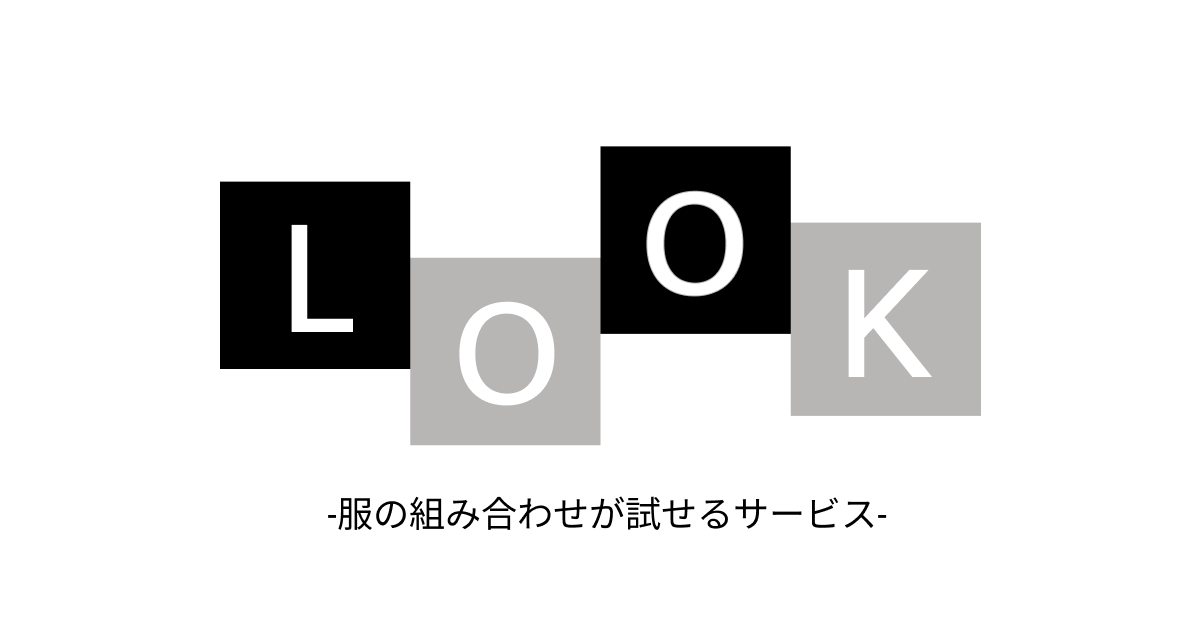
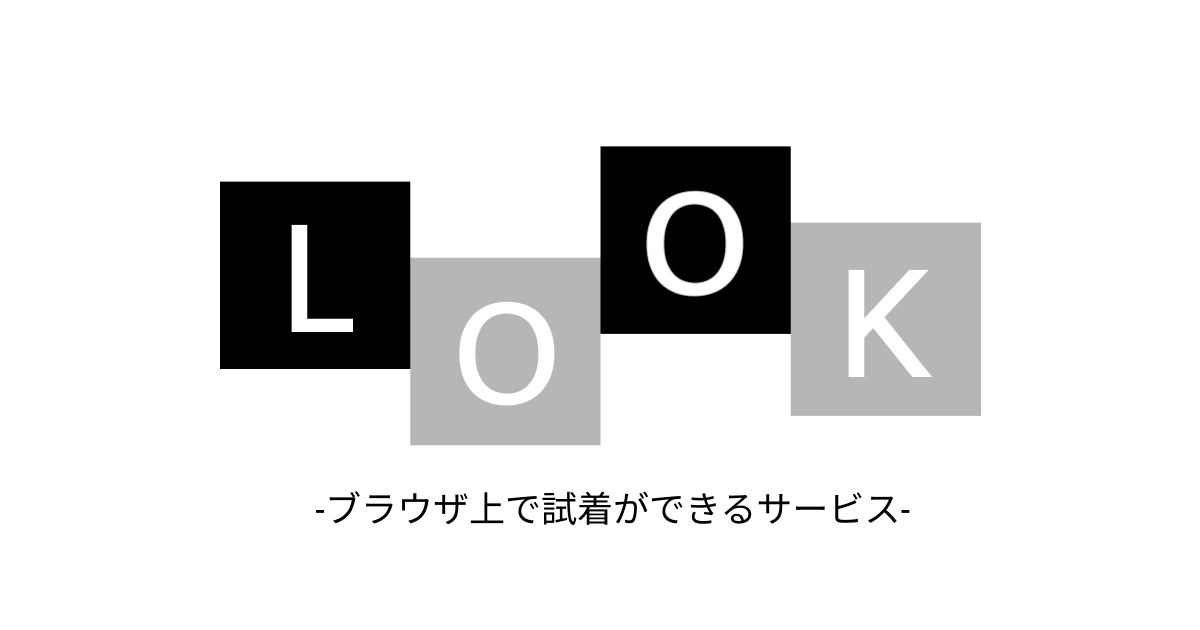
文言修正

Changed region(s): [[0.2775, 0.7841, 0.74, 0.8444]]

diff --git a/app/helpers/application_helper.rb b/app/helpers/application_helper.rb
@@ -4,7 +4,7 @@ module ApplicationHelper
       site: 'LOOK',
       reverse: true,
       separator: '|',
-      description: 'ブラウザ上で服の組み合わせが試せるサービス。',
+      description: 'ブラウザ上で試着ができるサービス。',
       keywords: '服,ファッション,コーディネート',
       canonical: request.original_url,
       noindex: ! Rails.env.production?,
@@ -15,7 +15,7 @@ module ApplicationHelper
       og: {
         title: 'LOOK',
         site_name: 'LOOK',
-        description: 'ブラウザ上で服の組み合わせが試せるサービス。', 
+        description: 'ブラウザ上で試着ができるサービス。', 
         type: 'website',
         url: request.original_url,
         image: image_url('ogp.png'),
@@ -23,7 +23,7 @@ module ApplicationHelper
       },
       twitter: {
         card: 'summary_large_image',
-        description: 'ブラウザ上で服の組み合わせが試せるサービス。',
+        description: 'ブラウザ上で試着ができるサービス。',
         title: 'LOOK',
         image: image_url('ogp.png'),
       }
